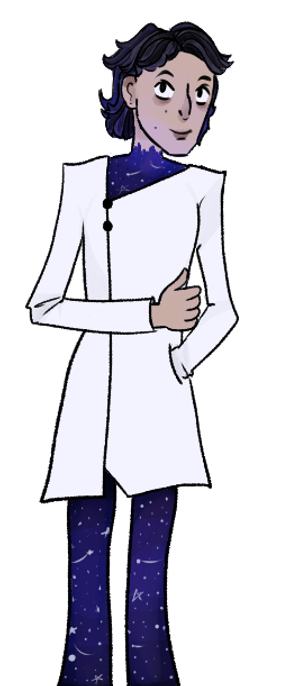
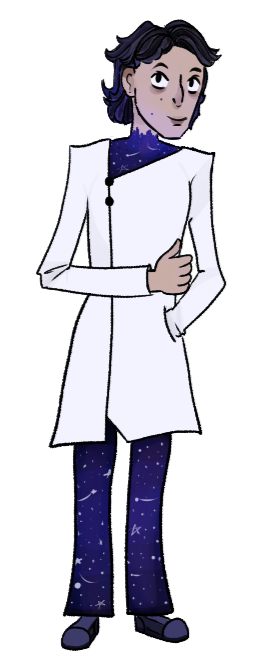
1.12

Changed region(s): [[0.0873, 0.0305, 0.8436, 1.0]]

diff --git a/siteVivi.html b/siteVivi.html
@@ -33,13 +33,13 @@
 			
 			<div id = "pers"><br>
 				
-				<p id = "item2" class = "date"> Nume : Pașaniuc </p>
+				<p class = "date"> Nume : Pașaniuc </p>
 				<p class = "date"> Prenume :  Elena - Viviana </p>
 				<p class = "date"> Clasa : XI - XII </p><br>
 				
 				<img class = "om" src = "vivi2.png" id = "item1">
 				
-				<p> Contacte : </p>
+				<p id = "item2"> Contacte : </p>
 				
 				<a class = "ccutie" href = "https://www.instagram.com/vivigirl08132?utm_source=ig_web_button_share_sheet&igsh=ZDNlZDc0MzIxNw=="> 
 					<img src = "https://i.pinimg.com/originals/85/0d/b3/850db33d2e953501678b3bba2d25359e.png" style = "display : inline; height : 45px; float : left;">
@@ -80,7 +80,78 @@
 			</div><br><br>
 			
 			<h2> Profil profesional </h2>
-			<h3> Roluri actorie </h3>
+			<h3> Rol actorie </h3>
+			
+			
+			
+			<h3> Rol design </h3>
+			
+			<p> În scopul de a contribui la animația "<b>O felie pentru toți</b>" am
+			făcut design-uri atât pe cont propriu, cât și în colaborare cu alți
+			membri. </p>
+			
+			<div class = "iimg">
+				<img  src = "Vivi/Achim design.png">
+				<p> <b>Personajul Achim, personaj principal al animației "O felie 
+				pentru toți". </b> 
+				<br> Achim este un pesonaj "rotund", ce evoluează de la a fi
+				agresiv, axat pe emoțiile negative, la a fi calm, chiar
+				și atunci când cei din jur nu sunt.
+				</p>
+			</div> 
+			
+			<p> <b>Experiență personală</b> : "Dintotdeauna am avut dificultăți
+			în a desena corpuri masculine, care simultan să nu aibă caracteristici
+			feminine sau copilărești. Bazându-mă pe ideea dată de Georgiana 
+			de a îi oferi un caracteristici triunghiulare,
+			am reușit
+			să fac primul personaj bărbătesc."
+			</p><br>
+			
+			<div class = "iimg">
+				<img  src = "Vivi/ScenaFinal_Lucia_8.png">
+				<p> <b>Un cadru simplu</b>, o încercare nedefinitivată, 
+				dar definivativă în modul de lucru...
+				</p>
+			</div>
+			
+			<div class = "iimg">
+				<img  src = "Vivi/background1.png">
+				<p> Cadrul în care se pune în lumină un eveniment nefericit 
+				al oricărei perosane desconsiderate de societate. <b> Bulling </b>
+				</p>
+			</div>
+			
+			<p> <b>Experiență personală</b> : "Pot recunoaște că sunt printre 
+			primele încercări persistente de a face un cadru decent, dar 
+			simultan sunt și cele mai reușite."
+			
+			</p><br>
+			
+			<div class = "iimg">
+				<img  src = "Vivi/cetateanul colorat.png">
+				<p> <b>Copilul din medii defavorizate ce încearcă să îi fure
+				protagonistului brelocul din buzunar. </b> 
+				<br> Acest personaj este o oglindă a lui Achim,
+				care merge într-o direcție opusă față de cea
+				reprezentată de animație.
+				</p>
+			</div>
+			
+			<div class = "iimg">
+				<img  src = "Vivi/miuta.png">
+				<p> Miuța este un personaj de fundal care ar putea fi
+				relevant într-o animație din viitor. <b> >:> </b>
+				</p>
+			</div>
+			
+			<p> <b>Experiență personală</b> : "Nu am fost scoasă din 
+			zona de comfort, dar au fost niște joculețe drăguțe."
+			</p><br>
+			
+			<h3> Rol animație </h3>
+			
+			
 			
 			<p>Paragraf</p> <br><br> 
 			
@@ -121,7 +192,7 @@
 			</a> </div>
 			
 			<div class = "linkt" id = "insta"> <a class = "ull" style = "font-size : 12px; text-align : center;"> <img style = "width : 50px; margin : auto;" alt = "Intagram" src = "https://i.pinimg.com/originals/85/0d/b3/850db33d2e953501678b3bba2d25359e.png"><br> <p style = "font-size : 12px; margin-top : -10px; color : #004d00;">@studioul_corcoduselor</p>
-			</a> </div>
+			</a> </div><br>
 			
 			<div class = "linkt" id = "tiktok"> <a class = "ull" style = "font-size : 12px; text-align : center;"> <img style = "width : 30px; margin : auto; border-radius: 5000px;" alt = "TikTok" src = "https://ugc.production.linktr.ee/VQ76BomvQESYaUmcNPem_IvmCXA89sTnnY0r2"><br> <p style = "font-size : 12px; margin-top : -10px; color : #004d00;">@wax_cherry_studio</p>
 			</a> </div>
@@ -141,11 +212,14 @@
 	
 	<script>
 		const elementToMove = document.getElementById("item1");
+		const targetSibling2 = document.getElementById("item2");
 		const targetSibling = document.getElementById("item3");
 		
 		function rearrangeOnPortrait() {
 		  if (window.screen.width < window.screen.height) {
 			targetSibling.parentNode.insertBefore(elementToMove, targetSibling);
+		  }else{
+			targetSibling.parentNode.insertBefore(elementToMove, targetSibling2);
 		  }
 		}
 

diff --git a/style.css b/style.css
@@ -42,7 +42,7 @@ h3{
 	font-size :30px;
 	color : #004d00;
 	font-family : 'Roboto Serif';
-	font-weight: none;
+	font-weight: bolder;
 	letter-spacing: 2px;
 }
 
@@ -227,10 +227,10 @@ div.linkt{
 }
 
 div.nise{
-	width : 70%;
+	width : 65%;
 	background-color : #ffffb3; 
 	margin : auto; 
-	border-radius : 20px; 
+	border-radius : 80px; 
 	padding : 5%;
 	margin-top : 60px; 
 	margin-bottom : 40px; 
@@ -273,10 +273,10 @@ div.projn{
 }
 
 div.ptitlu{
-	padding : 7%;
+	padding : 6%;
 	width : 60%;
 	display : inline-block;
-	margin-top : -20%;
+	margin-top : -10%;
 	margin-left : -70%;
 	background-color : #FFC47C;
 	border-radius : 84px;
@@ -376,6 +376,7 @@ a.ull{
 	text-align : left;
 	font-family : 'Roboto Serif';
 	text-decoration: none;
+	font-weight : bolder;
 }
 
 a.sursa{
@@ -413,6 +414,18 @@ img.icon{
 	height : auto;
 	border-radius : 100px;
 	margin : auto;
+}
+
+img.cincia{
+	border-radius : 10px;
+	width: 20%;
+	margin-left : 30%;
+	margin-top : 5px;
+	transition : 0.3s;
+}
+
+img.cincia:hover{
+	rotate: 180deg;
 }
 
 /* Modele animatii */
@@ -479,7 +492,7 @@ input:hover , textarea:hover, label:hover{
 }
 
 div.ptitlu:hover{
-	padding : 8%;
+	padding : 6.5%;
 	background-color : #FFB65D;
 }
 
@@ -848,7 +861,6 @@ form button{
 	p.fo{
 		margin-left : 10%;
 	}
-<<<<<<< HEAD
 	
 	div.projn{
 		width : 90%;
@@ -866,7 +878,10 @@ form button{
 		cursor : pointer;
 		transition : 0.3s;
 	}
+	
+	div.nise{
+		width : 80%;
+		border-radius : 50px;
+	}
 }
-=======
-}
->>>>>>> 2cb87813271fb4a17bec63097b6d4ad0fd9aa0f5
+

diff --git a/stilprofil.css b/stilprofil.css
@@ -1,3 +1,33 @@
+
+div.iimg img{
+	display : block;
+	margin : auto;
+	border-radius : 20px 20px 0px 0px;
+	width : 97%;
+}
+
+div.iimg p{
+	font-size : 15px;
+	color : #004d00;
+	width : 90%;
+}
+
+div.iimg{
+	display : inline-block;
+	width : 45%;
+	cursor : pointer;
+	background-color : #e6d5b7; 
+	border-radius : 25px;
+	margin-bottom : 20px;
+	transition : 0.3s;
+	border : 0px solid red;
+}
+
+div.iimg:hover{
+	padding : 0.01%;
+	border : 5px solid #ffb366;
+}
+
 p.sfat{
 	display : inline-block;
 	background-color : #ffc994;
@@ -6,6 +36,12 @@ p.sfat{
 	width : 45%;
 	margin-left : 30px; 
 	box-shadow : 1px 1px 20px 1px #c7b99e;
+	border : 0px solid red;
+	transition : 0.3s;
+}
+
+p.sfat:hover{
+	border : 5px solid #ffb366;
 }
 
 p.tag{
@@ -102,6 +138,10 @@ div.othproj:hover{
 }
 
 @media only screen and (max-aspect-ratio: 1/1) {
+		div.iimg{
+		width : 90%;
+	}
+	
 	p.sfat{
 		border-radius : 20px;
 		padding : 2%;

diff --git a/ProfilPersoana.html b/ProfilPersoana.html
@@ -104,7 +104,7 @@
 			</a> </div>
 			
 			<div class = "linkt" id = "insta"> <a class = "ull" style = "font-size : 12px; text-align : center;"> <img style = "width : 50px; margin : auto;" alt = "Intagram" src = "https://i.pinimg.com/originals/85/0d/b3/850db33d2e953501678b3bba2d25359e.png"><br> <p style = "font-size : 12px; margin-top : -10px; color : #004d00;">@studioul_corcoduselor</p>
-			</a> </div>
+			</a> </div><br>
 			
 			<div class = "linkt" id = "tiktok"> <a class = "ull" style = "font-size : 12px; text-align : center;"> <img style = "width : 30px; margin : auto; border-radius: 5000px;" alt = "TikTok" src = "https://ugc.production.linktr.ee/VQ76BomvQESYaUmcNPem_IvmCXA89sTnnY0r2"><br> <p style = "font-size : 12px; margin-top : -10px; color : #004d00;">@wax_cherry_studio</p>
 			</a> </div>

diff --git a/OFeliePentruToti.html b/OFeliePentruToti.html
@@ -55,7 +55,7 @@
 				</div>
 			
 				<div class = "elev" href = ""> 
-					<img src = "Georgiana.png" class = "icon"><br>
+					<img src = "bumb.png" class = "icon"><br>
 					<a class = "acces" href = ""> Bumb Ștefan - Sebastian </a> <br>
 					
 					<div style = "display : block; witdh : 90%; margin : auto; margin-botom : 20px;">
@@ -102,7 +102,7 @@
 				</div> 
 			
 				<div class = "elev"> 
-					<img src = "Georgiana.png" class = "icon"><br>
+					<img src = "gimiga.png" class = "icon"><br>
 					<a class = "acces" href = ""> Gimiga Teodor </a>  
 					
 					<div style = "display : block; witdh : 90%; margin : auto; margin-botom : 20px;">

diff --git a/Inscriere.html b/Inscriere.html
@@ -26,6 +26,7 @@
 			
 			<img src = "a2.gif" style = "width : 40%; display : inline-block;">
 			<img src = "asteptare.gif" style = "width : 40%; display : inline-block; float : right;">
+			<img src = "animatieclasa_a_cincea.gif" class = "cincia">
 			
 			<br><br>
 			</div>
